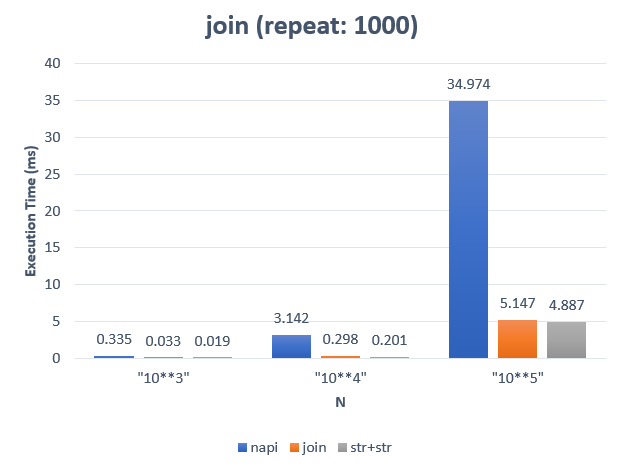
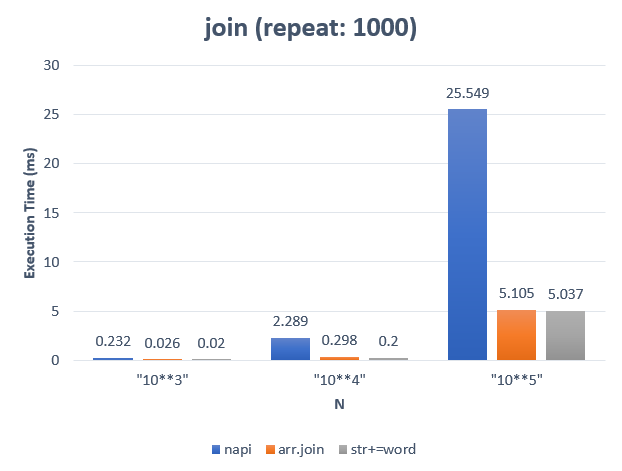
optimize c++ addon

diff --git a/03.string-array-join/src/index.ts b/03.string-array-join/src/index.ts
@@ -7,6 +7,7 @@ require("module-alias/register");
  */
 interface MyModule {
     join: (strarr: string[], separator: string) => string;
+    nothing: (strarr: string[], separator: string) => string;
 }
 const myModule: MyModule = require("@addon/my-addon.node");
 
@@ -21,10 +22,17 @@ function getExecutionTime(func: () => any): number {
 }
 
 /**
- * addon version function.
+ * addon version function. myModule.join()
  */
-function function_addon(strarr: string[], separator: string): string {
+function function_addon_v1(strarr: string[], separator: string): string {
     return myModule.join(strarr, separator);
+}
+
+/**
+ * addon version function. myModule.nothing()
+ */
+function function_addon_v2(strarr: string[], separator: string): string {
+    return myModule.nothing(strarr, separator);
 }
 
 /**
@@ -48,7 +56,7 @@ function function_node_v2(strarr: string[], separator: string): string {
 /**
  * benchmark function.
  */
-export function benchmark(n: number, repeat: number) {
+function benchmark1(n: number, repeat: number) {
     let avg_time_addon = 0;
     let avg_time_node1 = 0;
     let avg_time_node2 = 0;
@@ -59,7 +67,7 @@ export function benchmark(n: number, repeat: number) {
         strarr.push(String(i));
     }
 
-    for (let i = 0; i < repeat; i++) avg_time_addon += getExecutionTime(() => function_addon(strarr, separator));
+    for (let i = 0; i < repeat; i++) avg_time_addon += getExecutionTime(() => function_addon_v1(strarr, separator));
     for (let i = 0; i < repeat; i++) avg_time_node1 += getExecutionTime(() => function_node_v1(strarr, separator));
     for (let i = 0; i < repeat; i++) avg_time_node2 += getExecutionTime(() => function_node_v2(strarr, separator));
 
@@ -70,7 +78,30 @@ export function benchmark(n: number, repeat: number) {
     console.log(`node2 : ${avg_time_node2 / repeat} ms`);
 }
 
+/**
+ * benchmark function.
+ */
+function benchmark2(n: number, repeat: number) {
+    let avg_time_addon1 = 0;
+    let avg_time_addon2 = 0;
+
+    let separator: string = String(n);
+    let strarr: string[] = [];
+    for (let i = 0; i < n; i++) {
+        strarr.push(String(i));
+    }
+
+    for (let i = 0; i < repeat; i++) avg_time_addon1 += getExecutionTime(() => function_addon_v1(strarr, separator));
+    for (let i = 0; i < repeat; i++) avg_time_addon2 += getExecutionTime(() => function_addon_v2(strarr, separator));
+
+    console.log("----------------------------------");
+    console.log(`n: ${n}, repeat: ${repeat}`);
+    console.log(`addon1 : ${avg_time_addon1 / repeat} ms`);
+    console.log(`addon2 : ${avg_time_addon2 / repeat} ms`);
+}
+
 //
 // start benchmark.
 let testcase = [3, 4, 5].map((n) => Math.pow(10, n));
-testcase.forEach((n) => benchmark(n, 1000));
+testcase.forEach((n) => benchmark1(n, 1000));
+testcase.forEach((n) => benchmark2(n, 1000));

diff --git a/03.string-array-join/src/cppsrc/main.cpp b/03.string-array-join/src/cppsrc/main.cpp
@@ -15,22 +15,48 @@ Napi::String join(const Napi::CallbackInfo& info)
     std::string separator = info[1].ToString().Utf8Value();
 
     //
-    // Append to string-stream.
-    std::stringstream ss;
+    // Append to string.
+    std::string joined;
     uint32_t arrlen = strarr.Length();
     for (uint32_t i = 0; i < arrlen; i++) {
-        Napi::String str = strarr.Get(i).As<Napi::String>();
-        ss << str.Utf8Value() << separator;
+        std::string str = strarr.Get(i).As<Napi::String>().Utf8Value();
+        joined.append(str);
+        joined.append(separator);
     }
 
     //
     // Return as String.
-    return Napi::String::New(env, ss.str());
+    return Napi::String::New(env, joined);
+}
+
+Napi::String nothing(const Napi::CallbackInfo& info)
+{
+    Napi::Env env = info.Env();
+
+    //
+    // Get first argument as Array.
+    Napi::Array strarr = info[0].As<Napi::Array>();
+
+    //
+    // Get second argument as string.
+    std::string separator = info[1].ToString().Utf8Value();
+
+    //
+    // Just read each word.
+    uint32_t arrlen = strarr.Length();
+    for (uint32_t i = 0; i < arrlen; i++) {
+        std::string str = strarr.Get(i).As<Napi::String>().Utf8Value();
+    }
+
+    //
+    // Return as String.
+    return Napi::String::New(env, "nothing");
 }
 
 Napi::Object InitAll(Napi::Env env, Napi::Object exports)
 {
     exports.Set("join", Napi::Function::New(env, join));
+    exports.Set("nothing", Napi::Function::New(env, nothing));
     return exports;
 }
 

diff --git a/03.string-array-join/readme.md b/03.string-array-join/readme.md
@@ -20,12 +20,13 @@
 
 ```cpp
 string join(vector<string> arr, string separator){
-    stringstream ss;
+    string joined;
     size_t arrlen = arr.size();
     for(size_t i=0; i<arrlen; i++){
-        ss << arr[i] << separator;
+        joined.append(arr[i]);
+        joined.append(separator);
     }
-    return ss.str();
+    return joined;
 }
 ```
 
@@ -46,11 +47,12 @@ Napi::String join(const Napi::CallbackInfo& info)
 
     //
     // Append to string-stream.
-    std::stringstream ss;
+    std::string joined;
     uint32_t arrlen = arr.Length();
     for (uint32_t i = 0; i < arrlen; i++) {
-        Napi::String str = arr.Get(i).As<Napi::String>();
-        ss << str.Utf8Value() << separator;
+        std::string str = strarr.Get(i).As<Napi::String>().Utf8Value();
+        joined.append(str);
+        joined.append(separator);
     }
 
     //
@@ -67,7 +69,7 @@ function join_v1(arr: string[], separator: string): string {
 }
 ```
 
-**Node using str += str :**
+**Node using str += word :**
 
 ```ts
 function join_v2(arr: string[], separator: string): string {
@@ -84,3 +86,40 @@ function join_v2(arr: string[], separator: string): string {
 ### Benchmark
 
 ![](./images/benchmark.png)
+
+---
+
+### Why c++ is slower than node?
+
+Let's think of another function.
+This function casts the data received as a string and does nothing.
+
+```cpp
+Napi::String nothing(const Napi::CallbackInfo& info)
+{
+    Napi::Env env = info.Env();
+
+    //
+    // Get first argument as Array.
+    Napi::Array strarr = info[0].As<Napi::Array>();
+
+    //
+    // Get second argument as string.
+    std::string separator = info[1].ToString().Utf8Value();
+
+    //
+    // Just read each word.
+    uint32_t arrlen = strarr.Length();
+    for (uint32_t i = 0; i < arrlen; i++) {
+        std::string str = strarr.Get(i).As<Napi::String>().Utf8Value();
+    }
+
+    //
+    // Return as String.
+    return Napi::String::New(env, "nothing");
+}
+```
+
+![](./images/benchmark2.png)
+
+The overhead occurred in reading a lot of data.
